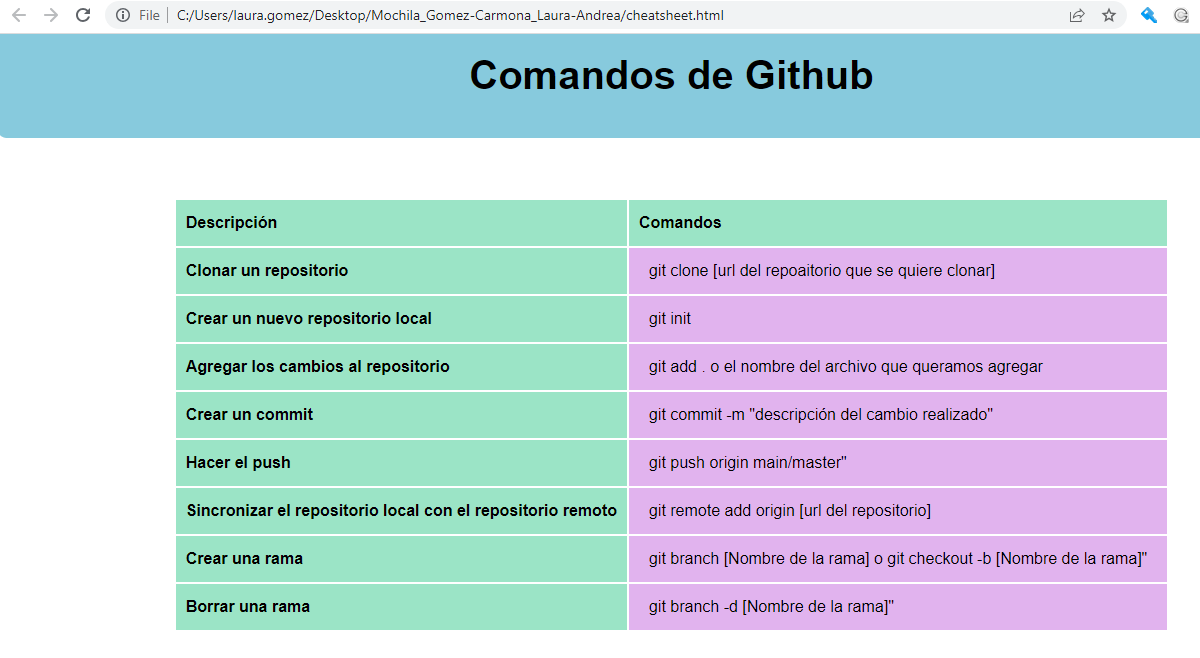
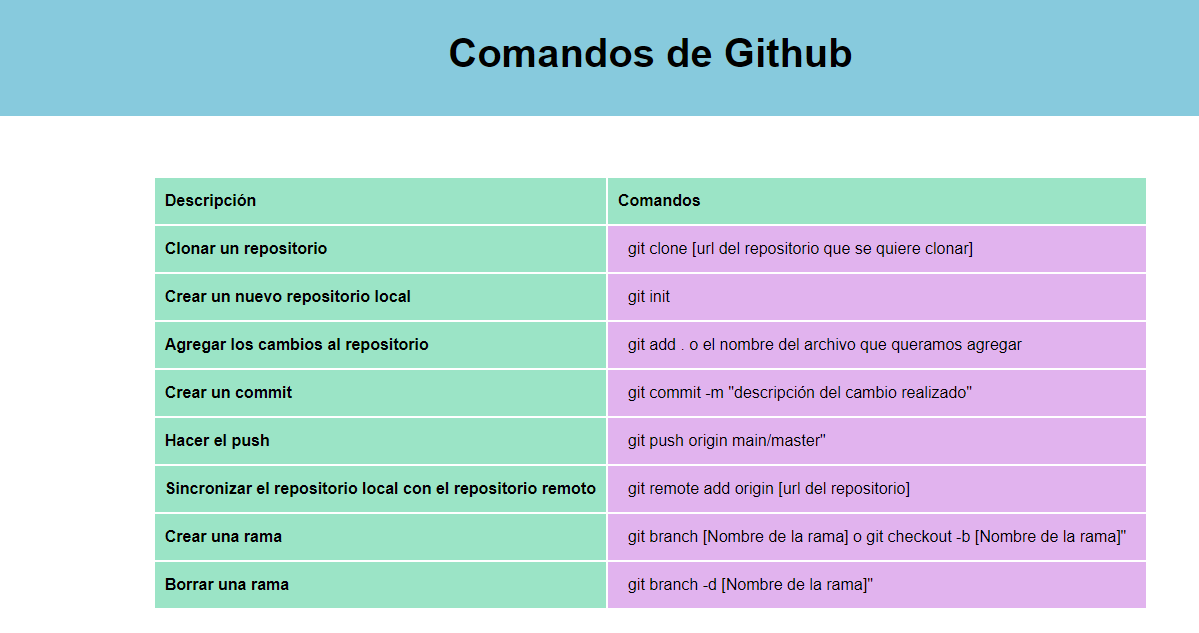
Cheatsheet

Changed region(s): [[0.1234, 0.2701, 0.9875, 0.9605], [0.0, 0.0, 1.0, 0.1501], [0.0, 0.1801, 1.0, 0.2101]]

diff --git a/cheatsheet.html b/cheatsheet.html
@@ -48,7 +48,7 @@
         </tr>
         <tr>
             <th>Clonar un repositorio</th>
-            <td>git clone [url del repoaitorio que se quiere clonar]</td>
+            <td>git clone [url del repositorio que se quiere clonar]</td>
         </tr>
         <tr>
             <th>Crear un nuevo repositorio local</th>
